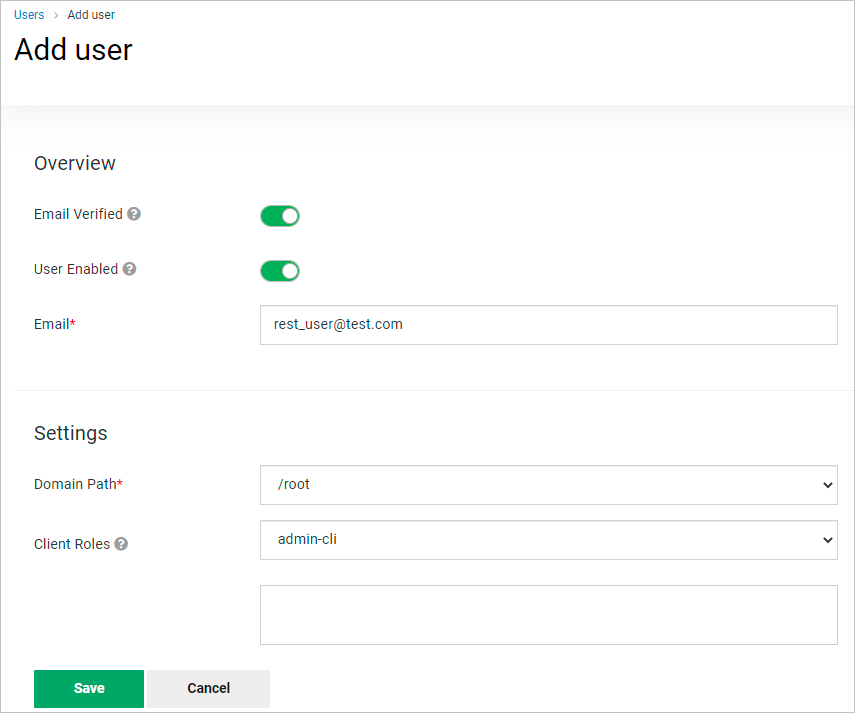
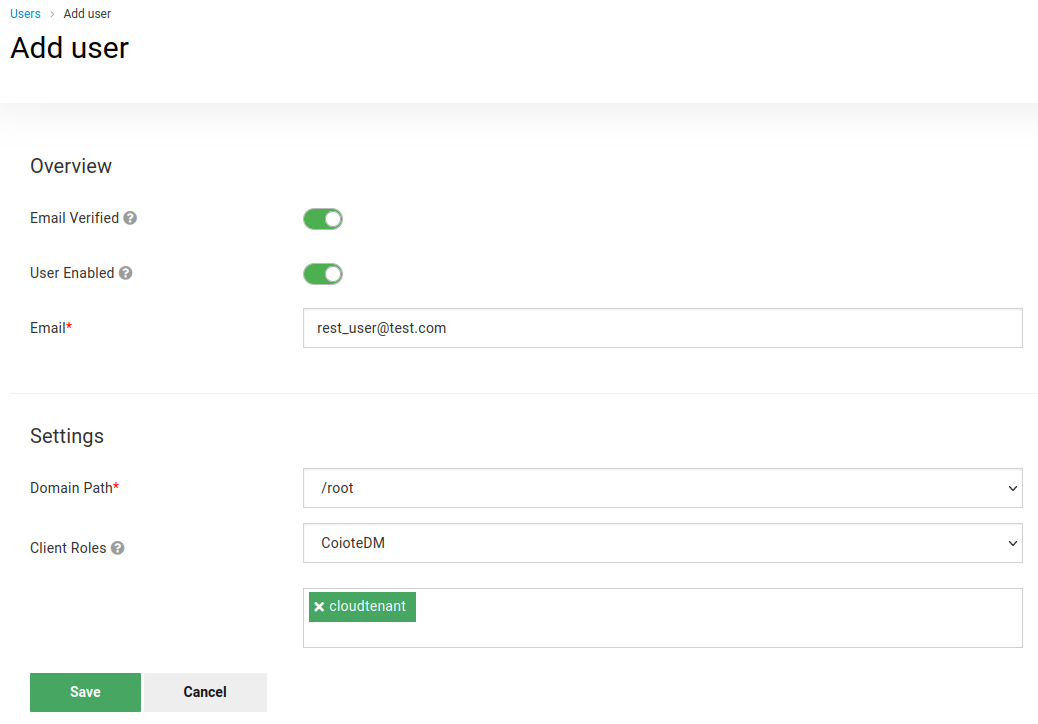
Migrate Terraform to CloudFormation

diff --git a/docs/AWS_Integration_Guide/Configuring_AWS_integration.md b/docs/AWS_Integration_Guide/Configuring_AWS_integration.md
@@ -5,10 +5,11 @@ Follow this section to integrate your AWS services with Coiote DM.
 ## Prerequisites
 
 - An active AWS subscription.
+- An AWS S3 bucket.
 - A Coiote DM user account with the **Cloud admin** role.
-- The Git tool (<https://git-scm.com/book/en/v2/Getting-Started-Installing-Git>).
+- The Git tool (<https://git-scm.com/book/en/v2/Getting-Started-Installing-Git>). 
+- The Python package installer (<https://pypi.org/project/pip/>).
 - The AWS CLI (<https://aws.amazon.com/cli/>).
-- Terraform CLI (<https://learn.hashicorp.com/tutorials/terraform/install-cli>).
 
 ## Create a Coiote DM REST user
 
@@ -17,9 +18,9 @@ To start integrating AWS with Coiote DM, you first need to create a user account
 1. Go to your Coiote DM account and from the **Administration** menu, select **Users management**.
 2. Select **Add user** and in fill in the form:
 ![Add user button](images/add_button2.png "Add user button")
-    - Provide **Email** for new user (which will be its user name) and select your domain from the **Domain path** drop-down list.
+    - Provide **Email** for new user (which will be its username) and select your domain from the **Domain path** drop-down list.
     - Remember to switch on the **User Verified** and **User Enabled** toggle buttons.
-    - In the **Client Roles** field, pick the **admin-cli** role.
+    - In the **Client Roles** fields, pick the **CoioteDM** client and **cloudtenant** role.
 ![Add REST user](images/add_rest_user2.png "Add REST user")
     - Click **Save**.
     - Go to the **Credentials** tab, type a password for your user (twice), select **Set password**, then confirm by clicking **Set password** in the pop-up.
@@ -37,6 +38,7 @@ The Coiote DM-side configuration of the integration is located in the dedicated 
             - Select the **AWSiotCore** group and go to **Group tasks**, select the first **AWS** task and click **Copy**.
               ![Copy task](images/copy_task.png "Copy task")
             - In the pop-up window, click **Select group** in the **Task target** field and choose your custom integration group from the list.
+            - Remember to select the **Domain** of the user you created earlier.
             - In the **Actions** field, select **Add new task**.
               ![Copy task pop-up](images/copy_task_popup.png "Copy task pop-up")
             - Repeat the action for the remaining five tasks.
@@ -82,110 +84,38 @@ The Coiote DM-side configuration of the integration is located in the dedicated 
 
 ## Add AWS resources using the integration repository
 
-All the AWS-side configuration needed for the integration to work is stored in a publicly available git repository (<https://github.com/AVSystem/iot-examples/tree/main/coiote-aws-iot-terraform>).
+All the AWS-side configuration needed for the integration to work is stored in a publicly available git repository (<https://github.com/AVSystem/iot-examples/tree/main/coiote-aws-iot-cloud-formation>).
 
 To add the resources needed for the integration to your AWS services:
 
-1. Clone the repository into your local drive and check out on the `coiote-aws-iot-terraform` branch:
+1. Clone the repository into your local drive and check out on the `coiote-aws-iot-cloud-formation` branch:
     - Run your command line and paste the following commands:
        ```
        git clone --no-checkout https://github.com/AVSystem/iot-examples.git
        cd iot-examples
-       git sparse-checkout set coiote-aws-iot-terraform
+       git sparse-checkout set coiote-aws-iot-cloud-formation
        git checkout main
-       cd coiote-aws-iot-terraform
+       cd coiote-aws-iot-cloud-formation
        ```
-2. Insert your REST user credentials into the `vars.py` file:
-    - In the catalog of your local repository, find the `vars.py` file and open it using a program that enables file edition.
-    - Change the default values of the variables to the credentials of your REST user created in a previous step.
-        ![Change vars file](images/change_vars_file.png "Change vars file")
-        - For `coioteDMrestURL`, provide the URL address and port of your Coiote DM installation. By default, it's https://lwm2m-test.avsystem.io:8087.
-        - For `coioteDMrestPassword`, provide the password set for your Coiote DM REST user.
-        - For `coioteDMrestUsername`, provide your Coiote DM REST user login (email address).
-        - Save the file.
-3. Run Terraform:
-    - Go back to your command line and paste the following:
-        ```
-        terraform init
-        terraform apply
-        ```
-    - Run the command. It will copy all the 16 resources contained in the `main.tf` file from the repository into your AWS services. Among the key resources that enable the integration, there are: the `iam_for_lambda` role, the `lwm2mOperation` Lambda function, and the `operationRequest` and `operationResponse` rules. See the contents of the `main.tf` file below or refer to the Concepts chapter for more details.
-
-        ```json
-        resource "aws_iam_role" "iam_for_lambda" {
-          name = "iam_for_lambda"
-
-          assume_role_policy = <<EOF
-        {
-          "Version": "2012-10-17",
-          "Statement": [
-            {
-              "Action": "sts:AssumeRole",
-              "Principal": {
-                "Service": "lambda.amazonaws.com"
-              },
-              "Effect": "Allow"
-            }
-          ]
-        }
-        EOF
-        }
-
-        resource "aws_iam_policy_attachment" "policy_attachment" {
-          name = "attachment"
-          roles = [aws_iam_role.iam_for_lambda.name]
-          policy_arn = "arn:aws:iam::aws:policy/service-role/AWSLambdaBasicExecutionRole"
-        }
-
-
-        resource "random_string" "r" {
-          length = 16
-          special = false
-        }
-
-        data "archive_file" "lambda_zip" {
-          type = "zip"
-          source_dir = "lwm2mOperation"
-          output_path = "lwm2mOperation.zip"
-          depends_on = [random_string.r]
-        }
-
-        resource "aws_lambda_function" "lwm2mOperation" {
-          filename      = "lwm2mOperation.zip"
-          function_name = "lwm2mOperation"
-          role          = aws_iam_role.iam_for_lambda.arn
-          handler       = "lambda_function.lambda_handler"
-
-          source_code_hash = data.archive_file.lambda_zip.output_base64sha256
-
-          runtime = "python3.8"
-          environment {
-            variables = {
-              coioteDMrestPassword = var.coioteDMrestPassword
-              coioteDMrestUri = var.coioteDMrestURL
-              coioteDMrestUsername = var.coioteDMrestUsername
-            }
-          }
-
-        }
-
-        module "iot_rule_1" {
-          name = "operationRequest"
-          sql_query = "SELECT state.desired.operation AS operation, state.desired.keys AS keys, state.desired.values AS values, state.desired.attributes AS attributes, state.desired.arguments AS arguments, topic(3) AS thingName FROM '$aws/things/+/shadow/name/operation/update/accepted' WHERE isUndefined(state.desired.operation) = false"
-          source  = "git::https://github.com/Passarinho4/terraform-aws-iot-topic-rule.git?ref=master"
-          lambda = ["lwm2mOperation"]
-          depends_on = [aws_lambda_function.lwm2mOperation]
-        }
-
-        module "iot_rule_2" {
-          name = "operationResponse"
-          sql_query = "SELECT state.reported.result AS state.reported FROM '$aws/things/+/shadow/name/operation/update/accepted' WHERE (CASE isUndefined(state.reported.operation) WHEN true THEN false ELSE CASE state.reported.operation = 'read' OR state.reported.operation = 'write' OR state.reported.operation = 'readComposite' when true THEN true ELSE false END END) = true"
-          source = "git::https://github.com/Passarinho4/terraform-aws-iot-topic-rule.git?ref=master"
-          republish = [{topic = "$$aws/things/$${topic(3)}/shadow/name/datamodel/update"}]
-        ```
-
-4. Once the Terraform command is executed successfully, the devices in your integration group will be automatically migrated to the AWS IoT Core.
-5. To check if your integration works correctly, go to AWS IoT Core, and from the menu, select **Manage** > **Things**, then see if your devices are listed as in here:
+2. Use Python package installer in command line to install all the required dependencies:
+    ```
+   python3 -m pip install -r lwm2mOperation/requirements.txt --target lwm2mOperation/
+    ```
+3. Package the code to your AWS S3 bucket and change the current CloudFormation template using the following command:
+    ```
+    aws cloudformation package --template-file cloudFormation.json --s3-bucket <your-bucket-name> --output-template-file output.json --use-json
+   ```
+4. Go to the AWS Console page (<https://console.aws.amazon.com/console/home>) and sign in. Make sure that you are in the right region. Choose **CloudFormation** from the services list.
+5. Create a new stack. Use the generated **output.json** file as a template for the stack.
+   ![Choose template file](images/choose_template_file.png "Choose template file")
+6. Choose a name for the stack and change the default values of the parameters to the credentials of your REST user created in a previous step.
+   ![Change parameters](images/change_parameters.png "Change parameters")
+   - For `coioteDMrestURL`, provide the URL address and port of your Coiote DM installation. By default, it's https://lwm2m-test.avsystem.io:8087.
+   - For `coioteDMrestPassword`, provide the password set for your Coiote DM REST user.
+   - For `coioteDMrestUsername`, provide your Coiote DM REST user login (email address).
+7. Finalize configuring the stack and wait for its creation to finish.
+8. Once the stack is created successfully, the devices in your integration group will be automatically migrated to the AWS IoT Core.
+9. To check if your integration works correctly, go to AWS IoT Core, and from the menu, select **Manage** > **Things**, then see if your devices are listed as in here:
 ![Migrated things](images/migrated_things.png "Migrated things")
 
 ## Next steps
